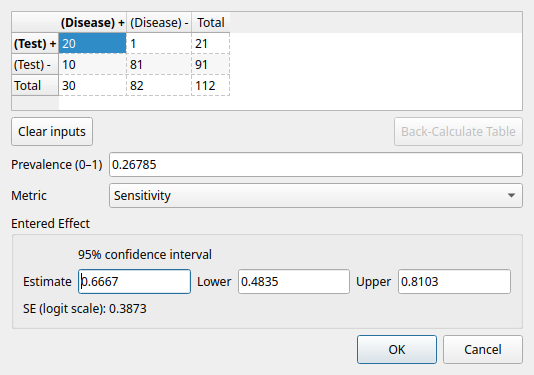
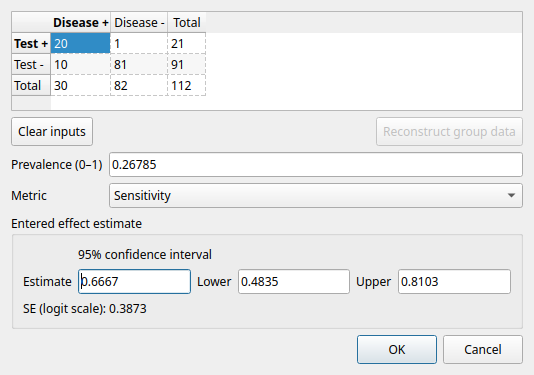
Record rebuilt slice 8A evidence and remaining work

diff --git a/docs/ux-hill-climb/SLICE8A.md b/docs/ux-hill-climb/SLICE8A.md
@@ -1,0 +1,70 @@
+# Slice 8A — partial implementation
+
+Import: the unlabelled “Binary” selector was a worksheet name, not a data family.
+It now has a Worksheet label; Data type remains the single format selector.
+Removed the redundant preview caption and made the blank-template action a link.
+The xlsx-import scenario now clicks the welcome-page Import data button and checks
+that the selected workbook is loaded and ready to import. It also retains the
+existing toolbar and equivalent-CSV checks.
+
+Metric: removed both instructional paragraphs, removed the title ellipsis and
+label colon, and used metric names instead of code prefixes. Proportion, Odds
+ratio (OR), Risk ratio (RR), Risk difference (RD), Mean difference and Standardized
+mean difference (SMD) have explicit clinical names; other names use sentence case.
+The default marker remains on the initially selected default only. This is the
+new-sheet wizard; existing sheet metric-change warnings were not changed.
+
+Calculators: the shared readout uses three decimal places for p-values, with
+<0.001 for smaller values. Diagnostic readouts retain labelled SE but omit Z and
+P. Diagnostic reconstruction now uses the same “Reconstruct group data” label as
+the other two dialogs; “Entered Effect” becomes “Entered effect estimate”, and
+Disease +/− and Test +/− lose parentheses. Display assertions changed only for
+the intended p-value text; R numerical comparisons remain intact.
+
+HR from p: not offered. RatioDataDialog accepts ratio plus CI or log ratio plus
+SE. CalculatorService has no HR-from-p operation. No conditional SE assertion was
+added.
+
+Amber finding: dataset_table_model.py applies #D6A93A and italic font to all
+populated effect columns, including entered values. It does not mark disagreement
+between computed and entered effects. Replacement is unfinished; no color change
+is claimed.
+
+Copy-sweep count: 0 additional strings changed. Candidate searches were run in
+Python and UI files, but reviewer-visible triage/rewrite remains unfinished.
+The explicitly requested calculator wording above changes 6 distinct strings;
+wizard naming changes are described separately above.
+
+Unfinished: group SE/CI and prevalence precision; binary result-table height and
+column fit; neutral computed-cell styling in both themes and grid screenshots;
+full wizard copy review and conditional entered-effect warning audit; complete
+copy sweep. No numerical calculation or accepted-value code was changed.
+
+Evidence: screens/slice8a-import.png, slice8a-metric.png and
+slice8a-calculator-{binary,continuous,diagnostic}.png. These are Qt offscreen
+captures; they do not establish native display behavior. Verification manifests,
+commands, runtime identities, screenshots, inputs and transcripts remain under
+artifacts/verification/rcms/. Final run status is recorded below.
+
+Verification setup: source build/sheets-baseline/ENV.sh; then
+`uv run --no-sync python scripts/build_qt6.py generate --build-root "$RCMS_QT6_BUILD_ROOT"`.
+The first runs used stale generated forms; these were superseded by rebuilt runs.
+The first selected pytest run was interrupted after 5 passes for that rebuild.
+
+All nine rebuilt desktop scenarios passed (each invoked as
+`uv run --no-sync python scripts/verify_rcms.py SCENARIO`):
+- xlsx-import: Evidence: /home/ali/.t3/worktrees/rc-metastudio/t3-713f0f8a/artifacts/verification/rcms/20261031T232551Z-ac0303db-xlsx-import
+- csv: Evidence: /home/ali/.t3/worktrees/rc-metastudio/t3-713f0f8a/artifacts/verification/rcms/20261031T232609Z-3390d23a-csv
+- calculator-binary: Evidence: /home/ali/.t3/worktrees/rc-metastudio/t3-713f0f8a/artifacts/verification/rcms/20261031T232621Z-214390e0-calculator-binary
+- calculator-continuous: Evidence: /home/ali/.t3/worktrees/rc-metastudio/t3-713f0f8a/artifacts/verification/rcms/20261031T232639Z-3ff90ac3-calculator-continuous
+- calculator-diagnostic: Evidence: /home/ali/.t3/worktrees/rc-metastudio/t3-713f0f8a/artifacts/verification/rcms/20261031T232653Z-901b3f1b-calculator-diagnostic
+- calculator-ratio-precision: Evidence: /home/ali/.t3/worktrees/rc-metastudio/t3-713f0f8a/artifacts/verification/rcms/20261031T232720Z-c4c61930-calculator-ratio-precision
+- amino: Evidence: /home/ali/.t3/worktrees/rc-metastudio/t3-713f0f8a/artifacts/verification/rcms/20261031T232905Z-1b021e89-amino
+- sheets: Evidence: /home/ali/.t3/worktrees/rc-metastudio/t3-713f0f8a/artifacts/verification/rcms/20261031T232918Z-3fb896f0-sheets
+- hillclimb: Evidence: /home/ali/.t3/worktrees/rc-metastudio/t3-713f0f8a/artifacts/verification/rcms/20261031T232935Z-b0d3d023-hillclimb
+
+Selected E2E command: `uv run --no-sync python -m pytest tests/e2e -n 2 -q -k "calculator or wizard or import or csv or ux or audit or review"`.
+Stopped cleanly for partial handback: 9 passed in 213.25s, exit 2
+(KeyboardInterrupt), no reported failures. This is incomplete, not a passing suite.
+Both remote pushes were withheld. Remaining default-marker behavior when changing
+selection also needs review; the existing marker behavior was retained.
